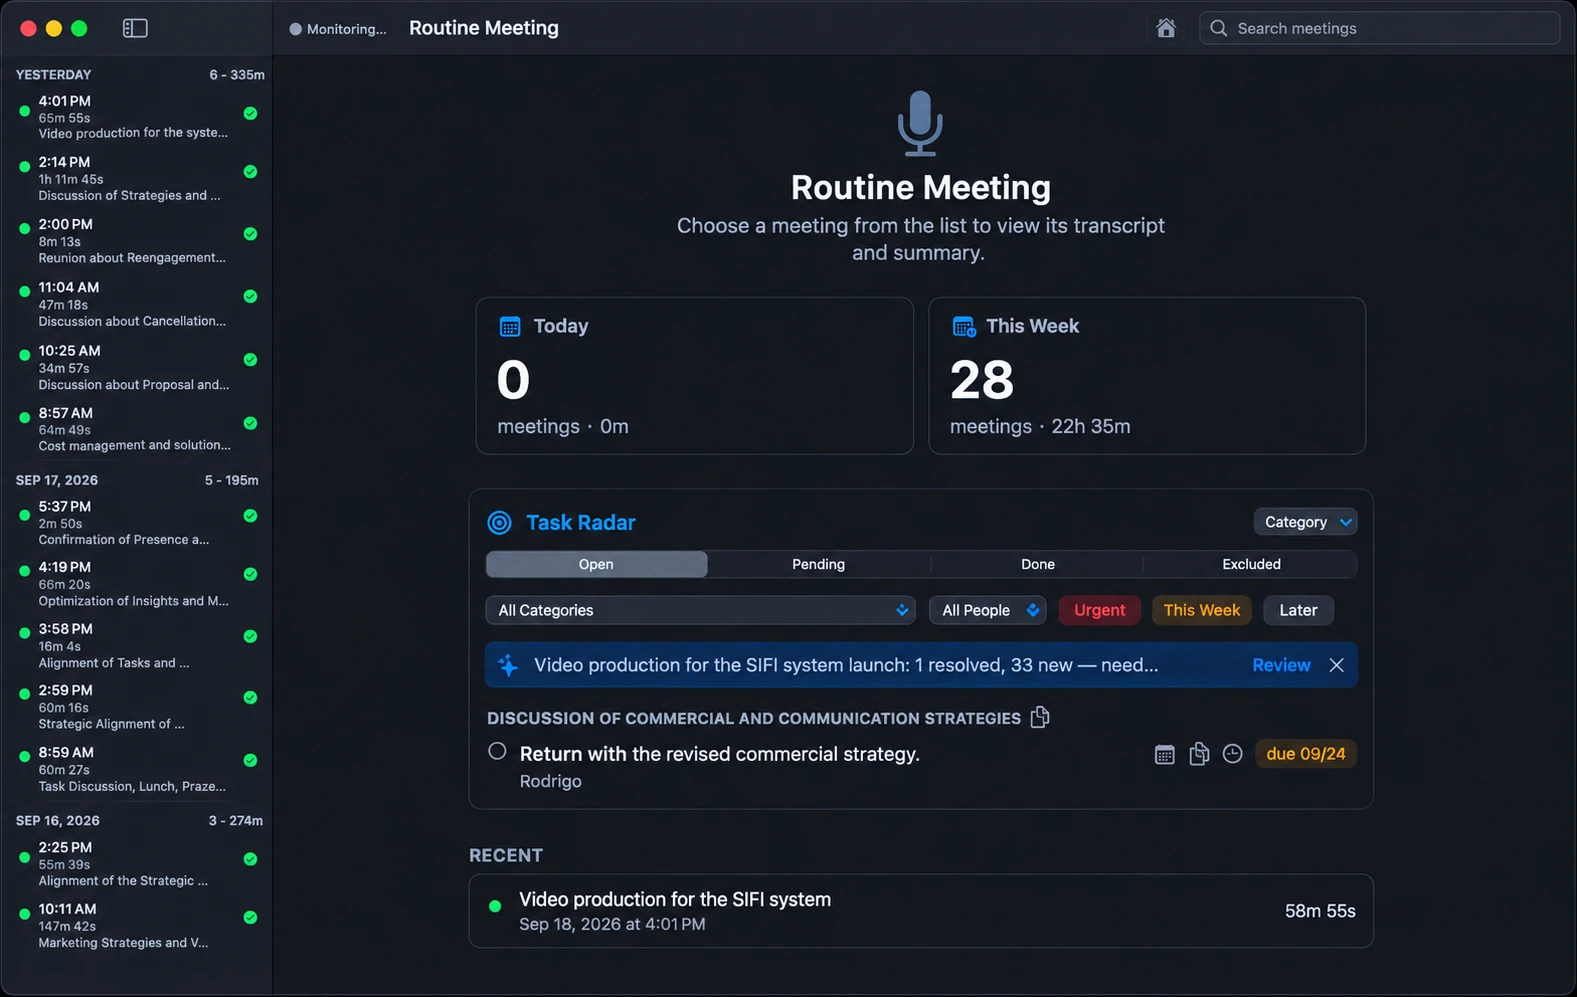
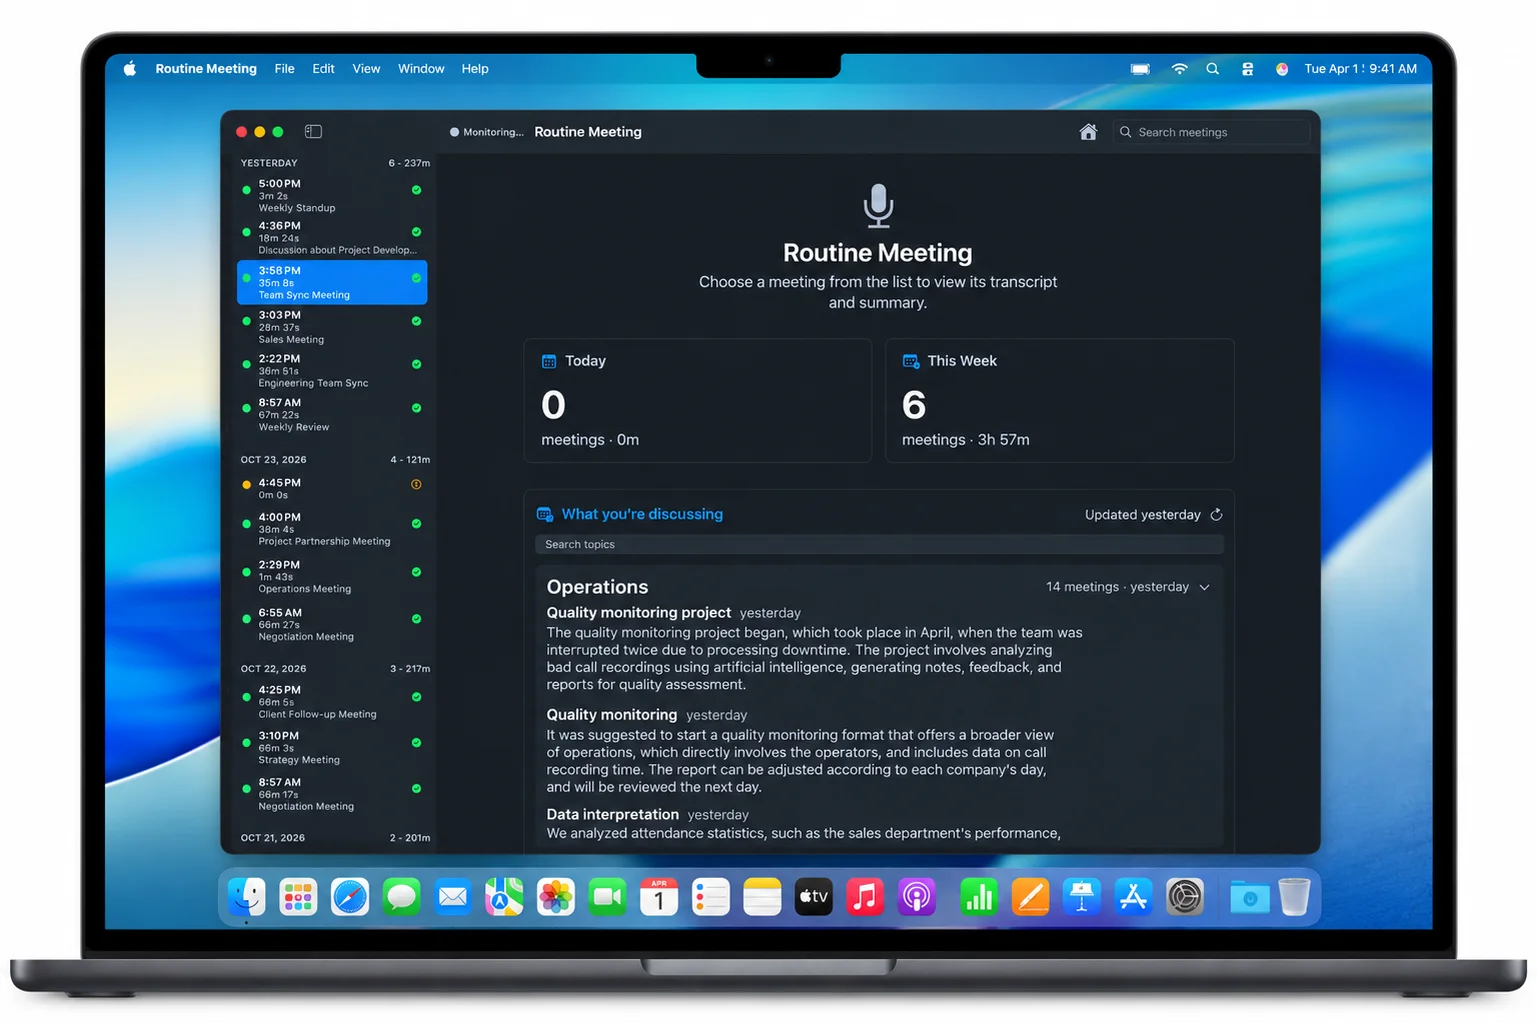
Replace outdated screenshot (Task Radar removed in v1.11) with the new home page, fix alt text and dimensions
Claude-Session: https://claude.ai/code/session_01GaAdnNmzan9rbrAtyPCA6e

diff --git a/docs/fr/index.html b/docs/fr/index.html
@@ -124,7 +124,7 @@
     </div>
     <p class="hero-meta">Gratuit · Apple Silicon · macOS 13+ · Aucun compte requis</p>
     <div class="hero-shot">
-      <img src="../screenshots/app-main.webp" width="1577" height="997" alt="Fenêtre principale de Routine Meeting : liste des réunions, statistiques hebdomadaires et Task Radar" fetchpriority="high" />
+      <img src="../screenshots/app-main.webp" width="1537" height="1023" alt="Fenêtre principale de Routine Meeting : liste des réunions, statistiques hebdomadaires et la page d'accueil « De quoi vous parlez »" fetchpriority="high" />
     </div>
   </header>
 

diff --git a/docs/pt-BR/index.html b/docs/pt-BR/index.html
@@ -123,7 +123,7 @@
     </div>
     <p class="hero-meta">Gratuito · Apple Silicon · macOS 13+ · Sem conta necessária</p>
     <div class="hero-shot">
-      <img src="../screenshots/app-main.webp" width="1577" height="997" alt="Janela principal do Routine Meeting: lista de reuniões, estatísticas semanais e Task Radar" fetchpriority="high" />
+      <img src="../screenshots/app-main.webp" width="1537" height="1023" alt="Janela principal do Routine Meeting: lista de reuniões, estatísticas semanais e a página inicial "O que você está discutindo"" fetchpriority="high" />
     </div>
   </header>
 

diff --git a/docs/es/index.html b/docs/es/index.html
@@ -123,7 +123,7 @@
     </div>
     <p class="hero-meta">Gratis · Apple Silicon · macOS 13+ · Sin cuenta requerida</p>
     <div class="hero-shot">
-      <img src="../screenshots/app-main.webp" width="1577" height="997" alt="Ventana principal de Routine Meeting: lista de reuniones, estadísticas semanales y Task Radar" fetchpriority="high" />
+      <img src="../screenshots/app-main.webp" width="1537" height="1023" alt="Ventana principal de Routine Meeting: lista de reuniones, estadísticas semanales y la página de inicio "De qué estás hablando"" fetchpriority="high" />
     </div>
   </header>
 

diff --git a/docs/ja/index.html b/docs/ja/index.html
@@ -122,7 +122,7 @@
     </div>
     <p class="hero-meta">無料 · Apple Silicon · macOS 13以降 · アカウント不要</p>
     <div class="hero-shot">
-      <img src="../screenshots/app-main.webp" width="1577" height="997" alt="Routine Meeting のメインウィンドウ:会議リスト、週間統計、Task Radar" fetchpriority="high" />
+      <img src="../screenshots/app-main.webp" width="1537" height="1023" alt="Routine Meeting のメインウィンドウ:会議リスト、週間統計、「今話していること」ホーム画面" fetchpriority="high" />
     </div>
   </header>
 

diff --git a/docs/de/index.html b/docs/de/index.html
@@ -123,7 +123,7 @@
     </div>
     <p class="hero-meta">Kostenlos · Apple Silicon · macOS 13+ · Kein Konto erforderlich</p>
     <div class="hero-shot">
-      <img src="../screenshots/app-main.webp" width="1577" height="997" alt="Hauptfenster von Routine Meeting: Meeting-Liste, Wochenstatistik und Task Radar" fetchpriority="high" />
+      <img src="../screenshots/app-main.webp" width="1537" height="1023" alt="Hauptfenster von Routine Meeting: Meeting-Liste, Wochenstatistik und Startseite "Worüber ihr sprecht"" fetchpriority="high" />
     </div>
   </header>
 

diff --git a/docs/ko/index.html b/docs/ko/index.html
@@ -122,7 +122,7 @@
     </div>
     <p class="hero-meta">무료 · Apple Silicon · macOS 13 이상 · 계정 불필요</p>
     <div class="hero-shot">
-      <img src="../screenshots/app-main.webp" width="1577" height="997" alt="Routine Meeting 메인 창: 회의 목록, 주간 통계, Task Radar" fetchpriority="high" />
+      <img src="../screenshots/app-main.webp" width="1537" height="1023" alt="Routine Meeting 메인 창: 회의 목록, 주간 통계, "지금 논의 중인 내용" 홈 화면" fetchpriority="high" />
     </div>
   </header>
 

diff --git a/docs/index.html b/docs/index.html
@@ -126,7 +126,7 @@
     </div>
     <p class="hero-meta">Free · Apple Silicon · macOS 13+ · No account required</p>
     <div class="hero-shot">
-      <img src="screenshots/app-main.webp" width="1577" height="997" alt="Routine Meeting main window: meeting list, weekly stats and the Task Radar" fetchpriority="high" />
+      <img src="screenshots/app-main.webp" width="1537" height="1023" alt="Routine Meeting main window: meeting list, weekly stats and the What you're discussing home page" fetchpriority="high" />
     </div>
   </header>
 

diff --git a/docs/zh-CN/index.html b/docs/zh-CN/index.html
@@ -122,7 +122,7 @@
     </div>
     <p class="hero-meta">免费 · Apple Silicon · macOS 13 及以上 · 无需账号</p>
     <div class="hero-shot">
-      <img src="../screenshots/app-main.webp" width="1577" height="997" alt="Routine Meeting 主窗口:会议列表、每周统计和 Task Radar" fetchpriority="high" />
+      <img src="../screenshots/app-main.webp" width="1537" height="1023" alt="Routine Meeting 主窗口:会议列表、每周统计和"你们正在讨论什么"主页" fetchpriority="high" />
     </div>
   </header>
 

diff --git a/docs/_posts/2026-10-21-transcribe-slack-huddles-facetime-discord-mac.md b/docs/_posts/2026-10-21-transcribe-slack-huddles-facetime-discord-mac.md
@@ -39,7 +39,7 @@ A Mac app can hear a call without being part of it by recording your microphone,
 Routine Meeting works this way. It starts after a short delay (about ten seconds by default) once it sees that pattern, ends by default when the call app lets go of the microphone and the system audio has been quiet for about 45 seconds, and transcribes on your Mac with WhisperKit. Your side is labeled "What you said" and everyone else's "What others said". Summaries are optional, from a local model or your own Gemini key (only transcript text is sent).
 
 <figure class="post-figure">
-  <img src="{{ '/screenshots/app-main.webp' | relative_url }}" alt="Routine Meeting main window: meeting list, weekly stats and the Task Radar" width="1577" height="997" loading="lazy" style="width:100%;height:auto;display:block;border-radius:12px">
+  <img src="{{ '/screenshots/app-main.webp' | relative_url }}" alt="Routine Meeting main window: meeting list, weekly stats and the What you're discussing home page" width="1537" height="1023" loading="lazy" style="width:100%;height:auto;display:block;border-radius:12px">
   <figcaption>Routine Meeting's main window on a Mac.</figcaption>
 </figure>
 

diff --git a/docs/_posts/2026-10-06-local-ai-meeting-notes-mac.md b/docs/_posts/2026-10-06-local-ai-meeting-notes-mac.md
@@ -105,7 +105,7 @@ This gives you full control and costs nothing, but you do the recording, copying
 Searches for "offline speech to text for Mac" mostly return dictation and file transcription apps such as Superwhisper, TypeWhisper and MacWhisper. Per their own descriptions, dictation apps turn your voice into text in any text field, and file transcribers convert recordings you already have. Neither starts by itself when a call begins. If you want a call recorded and summarized without pressing anything, use a meeting recorder from the list above.
 
 <figure class="post-figure">
-  <img src="{{ '/screenshots/app-main.webp' | relative_url }}" alt="Routine Meeting main window: meeting list, weekly stats and the Task Radar" width="1577" height="997" loading="lazy" style="width:100%;height:auto;display:block;border-radius:12px">
+  <img src="{{ '/screenshots/app-main.webp' | relative_url }}" alt="Routine Meeting main window: meeting list, weekly stats and the What you're discussing home page" width="1537" height="1023" loading="lazy" style="width:100%;height:auto;display:block;border-radius:12px">
   <figcaption>Routine Meeting's main window on a Mac.</figcaption>
 </figure>
 

diff --git a/docs/_posts/2026-10-11-how-to-transcribe-meetings-on-mac.md b/docs/_posts/2026-10-11-how-to-transcribe-meetings-on-mac.md
@@ -75,7 +75,7 @@ The difference from way 4 is that you never press anything. Routine Meeting is a
 - **Cost and requirements:** free, no account, Apple Silicon, macOS 13 or later. It is closed source and in public beta.
 
 <figure class="post-figure">
-  <img src="{{ '/screenshots/app-main.webp' | relative_url }}" alt="Routine Meeting main window: meeting list, weekly stats and the Task Radar" width="1577" height="997" loading="lazy" style="width:100%;height:auto;display:block;border-radius:12px">
+  <img src="{{ '/screenshots/app-main.webp' | relative_url }}" alt="Routine Meeting main window: meeting list, weekly stats and the What you're discussing home page" width="1537" height="1023" loading="lazy" style="width:100%;height:auto;display:block;border-radius:12px">
   <figcaption>Routine Meeting's main window on a Mac.</figcaption>
 </figure>
 

diff --git a/docs/_posts/2026-10-11-transcribe-zoom-meetings-mac-without-bot.md b/docs/_posts/2026-10-11-transcribe-zoom-meetings-mac-without-bot.md
@@ -65,7 +65,7 @@ This is the flow Routine Meeting's setup guide walks you through. I have describ
 7. **Read the transcript.** Your side is labeled "What you said" and everyone else's "What others said".
 
 <figure class="post-figure">
-  <img src="{{ '/screenshots/app-main.webp' | relative_url }}" alt="Routine Meeting main window: meeting list, weekly stats and the Task Radar" width="1577" height="997" loading="lazy" style="width:100%;height:auto;display:block;border-radius:12px">
+  <img src="{{ '/screenshots/app-main.webp' | relative_url }}" alt="Routine Meeting main window: meeting list, weekly stats and the What you're discussing home page" width="1537" height="1023" loading="lazy" style="width:100%;height:auto;display:block;border-radius:12px">
   <figcaption>Routine Meeting's main window on a Mac.</figcaption>
 </figure>
 
